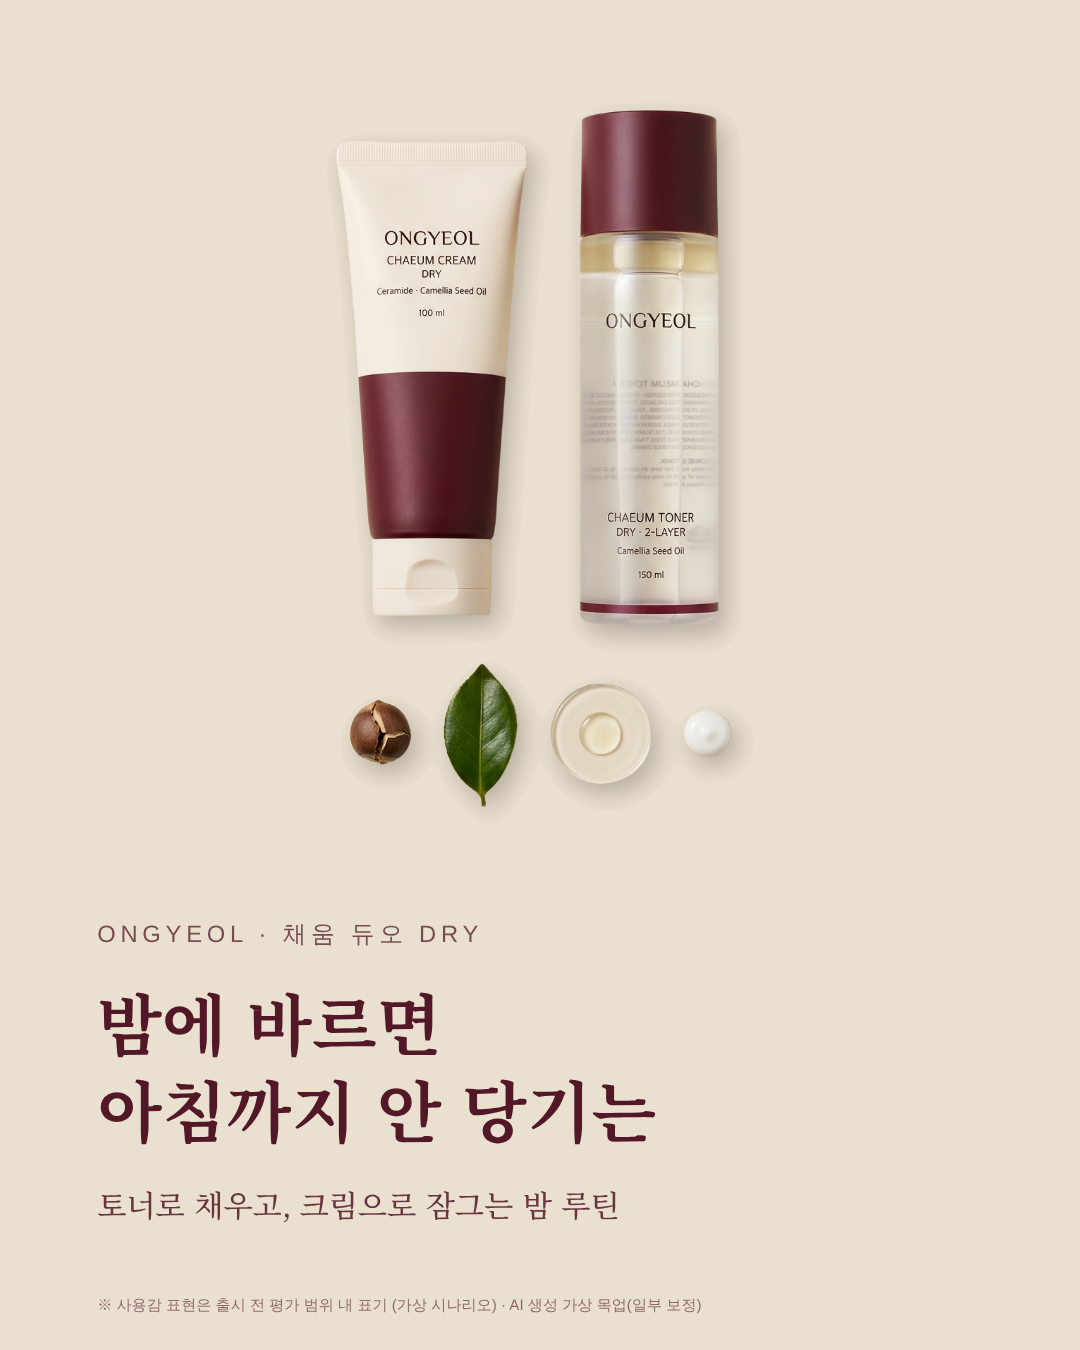
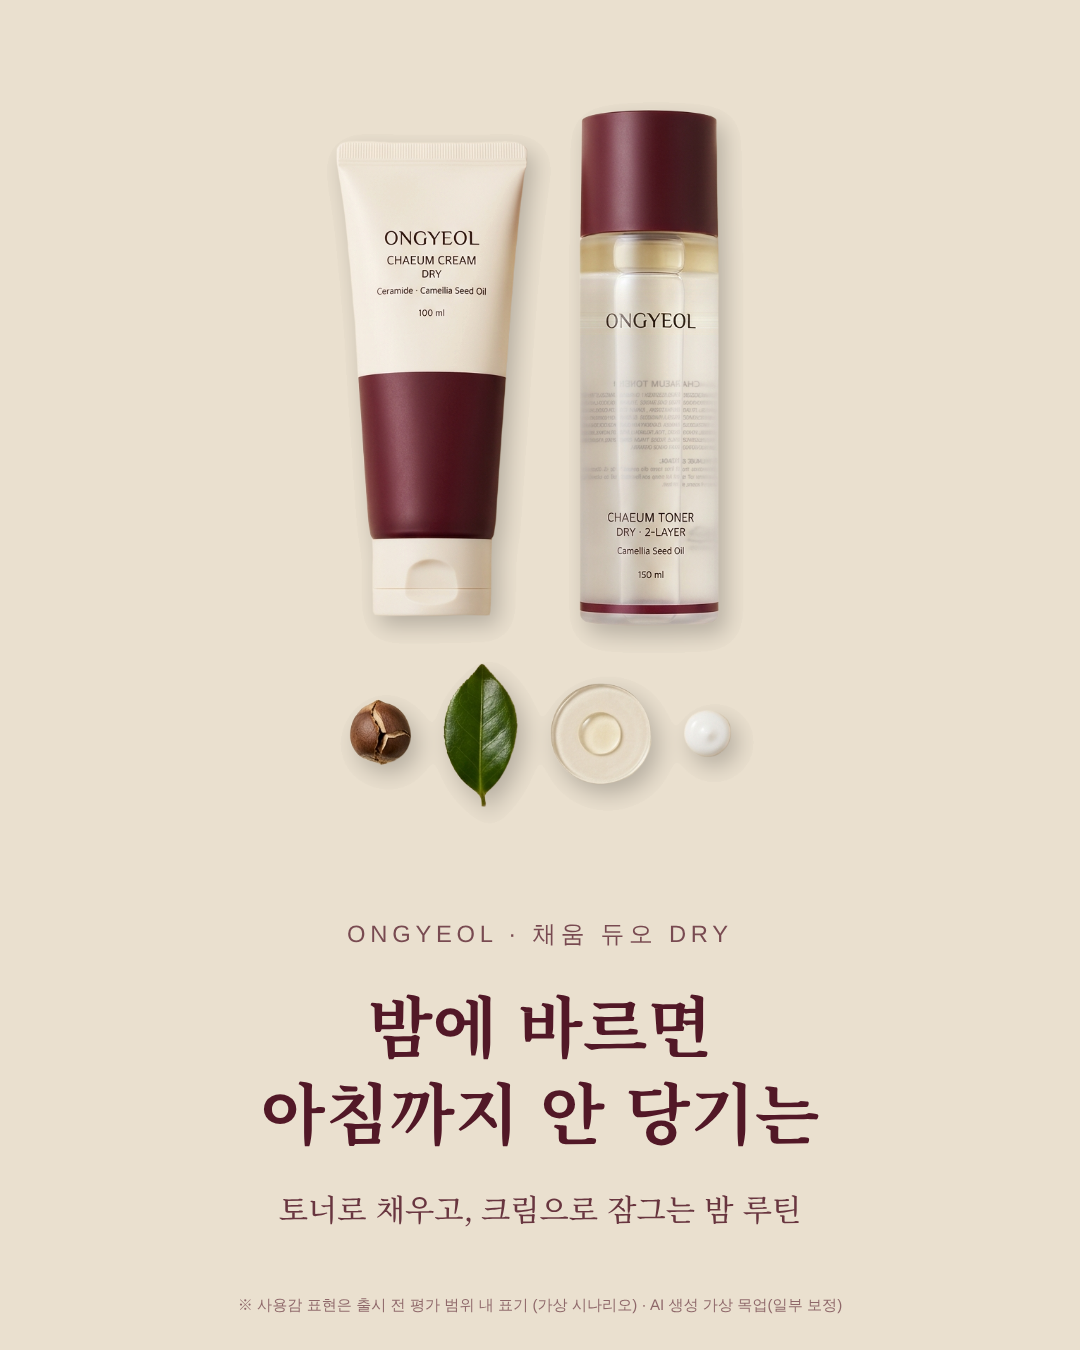
광고 v5 세로: 텍스트를 이미지 중심선에 맞춰 가운데 정렬
Claude-Session: https://claude.ai/code/session_01MXYaLybSstgexbFSnpQ7Pc

diff --git a/광고/v5/src/명조_세로.html b/광고/v5/src/명조_세로.html
@@ -1,2 +1,2 @@
 <!DOCTYPE html><html><head><meta charset='utf-8'><style>:root{--w:1080px;--h:1350px;--u:10.8px;--fs:1.4}@import url('https://cdn.jsdelivr.net/gh/orioncactus/pretendard@v1.3.9/dist/web/static/pretendard.min.css');@font-face{font-family:'OSerif';src:url(fonts/NotoSerifKR-500.woff2);font-weight:500}@font-face{font-family:'OSerif';src:url(fonts/NotoSerifKR-700.woff2);font-weight:700}*{margin:0;padding:0;box-sizing:border-box}body{width:var(--w);height:var(--h);overflow:hidden;font-family:Pretendard,sans-serif;position:relative;background:#EAE0CF;color:#521827}img{position:absolute;display:block}.txt{position:absolute}.k{font-size:calc(var(--u)*2.2);letter-spacing:.2em;opacity:.75;font-family:Pretendard,sans-serif;font-weight:500}.h{line-height:1.3;margin:3.2% 0;white-space:nowrap}.s{line-height:1.55;opacity:.85}.fine{position:absolute;font-size:calc(var(--u)*var(--fs));opacity:.6;line-height:1.5}
-.serif .h{font-family:'OSerif',serif;font-weight:700}.serif .s{font-family:'OSerif',serif;font-weight:500}.sans .h{font-weight:700}.sans .s{font-weight:500}.h{font-size:calc(var(--u)*6.2)}.s{font-size:calc(var(--u)*2.8)}img{left:50%;top:0;height:66%;transform:translateX(-50%)}.txt{left:9%;right:9%;top:68%}.fine{left:9%;right:9%;bottom:2.5%}</style></head><body class='serif'><img src='../../../디자인/이미지/선택/보정_D8_정렬.png'><div class='txt'><p class='k'>ONGYEOL · 채움 듀오 DRY</p><h1 class='h'>밤에 바르면<br>아침까지 안 당기는</h1><p class='s'>토너로 채우고, 크림으로 잠그는 밤 루틴</p></div><p class='fine'>※ 사용감 표현은 출시 전 평가 범위 내 표기 (가상 시나리오) · AI 생성 가상 목업(일부 보정)</p></body></html>
+.serif .h{font-family:'OSerif',serif;font-weight:700}.serif .s{font-family:'OSerif',serif;font-weight:500}.sans .h{font-weight:700}.sans .s{font-weight:500}.h{font-size:calc(var(--u)*6.2)}.s{font-size:calc(var(--u)*2.8)}img{left:50%;top:0;height:66%;transform:translateX(-50%)}.txt{left:6%;right:6%;top:68%;text-align:center}.fine{left:6%;right:6%;bottom:2.5%;text-align:center}</style></head><body class='serif'><img src='../../../디자인/이미지/선택/보정_D8_정렬.png'><div class='txt'><p class='k'>ONGYEOL · 채움 듀오 DRY</p><h1 class='h'>밤에 바르면<br>아침까지 안 당기는</h1><p class='s'>토너로 채우고, 크림으로 잠그는 밤 루틴</p></div><p class='fine'>※ 사용감 표현은 출시 전 평가 범위 내 표기 (가상 시나리오) · AI 생성 가상 목업(일부 보정)</p></body></html>
